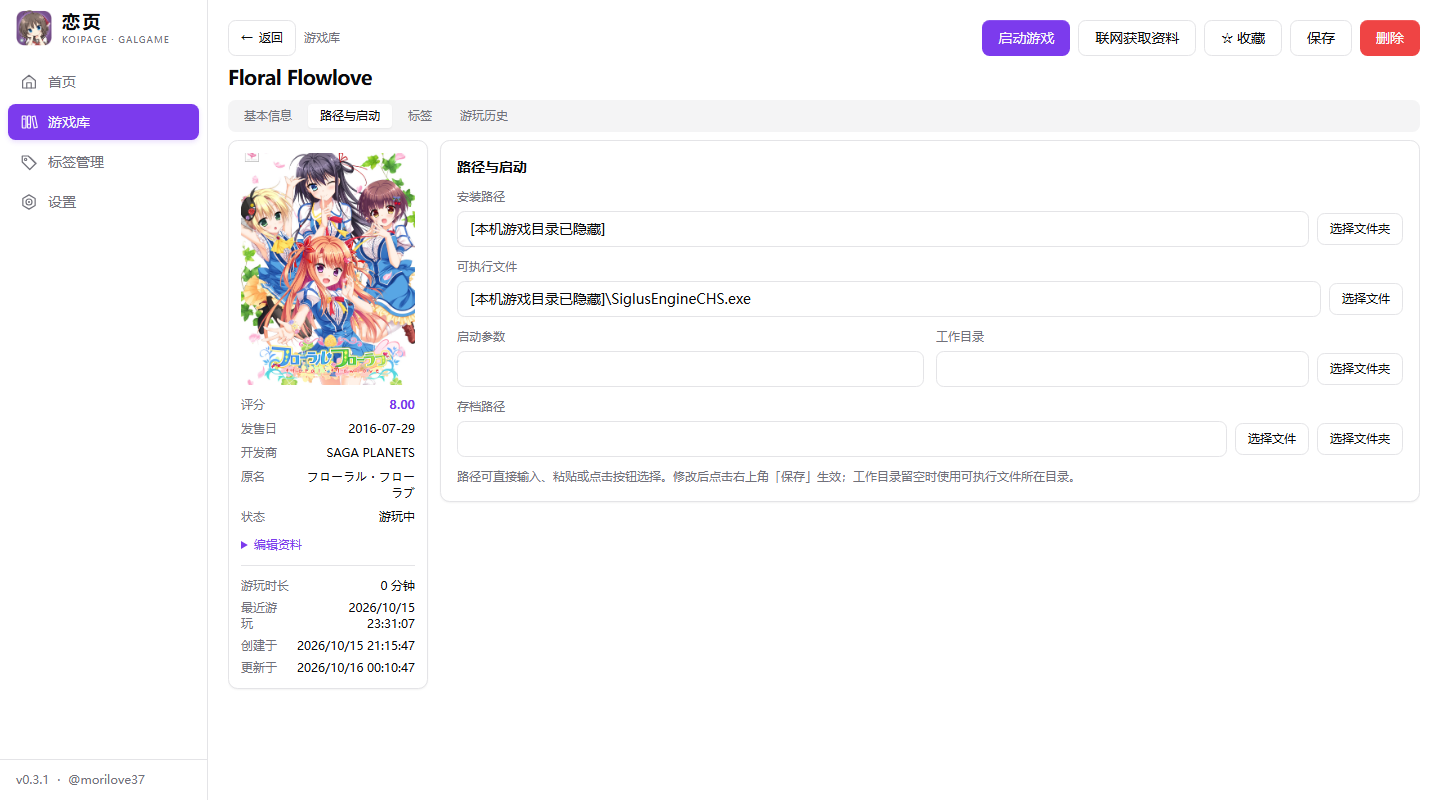
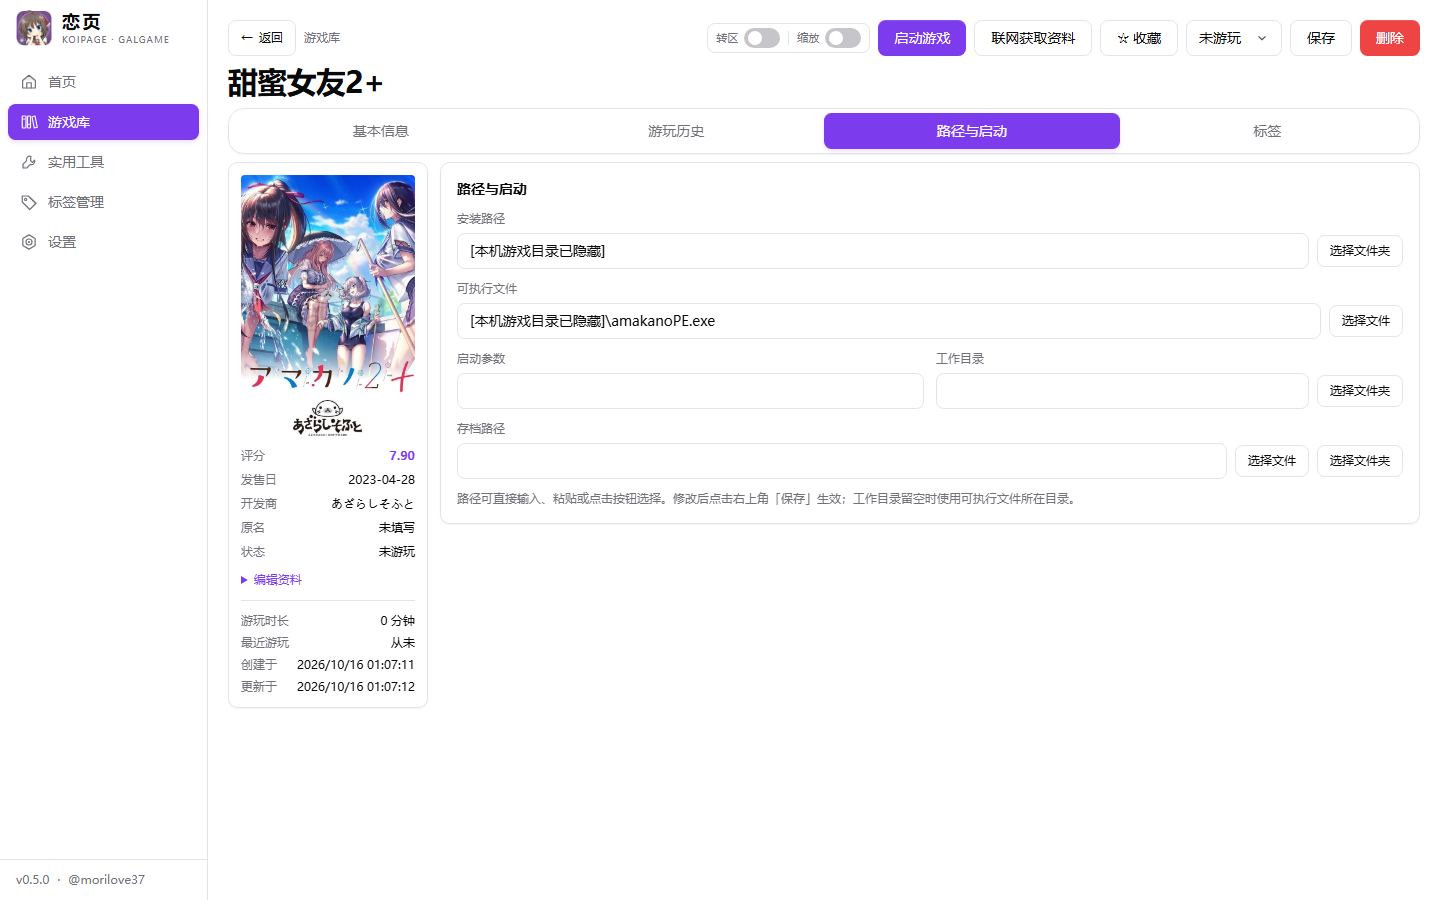
docs: refresh v0.5.0 project introduction and real-library screenshots

diff --git a/README.md b/README.md
@@ -3,9 +3,11 @@
 
   <h1>恋页 KoiPage</h1>
   <p><strong>收藏相遇，续写下一页。</strong></p>
-  <p>为本地 Galgame 与视觉小说收藏打造的 Windows 桌面游戏库。</p>
+  <p>面向 Windows 的 Galgame／视觉小说管理器，从整理收藏到继续游玩。</p>
+  <p><strong>当前版本：v0.5.0</strong> · Windows x64 · 本地游戏库</p>
 
   <a href="https://github.com/morilove37/KoiPage/releases/latest">下载最新版</a> ·
+  <a href="#界面预览">界面预览</a> ·
   <a href="#功能">功能介绍</a> ·
   <a href="CHANGELOG.md">更新日志</a> ·
   <a href="https://github.com/morilove37/KoiPage/issues">反馈问题</a>
@@ -13,44 +15,94 @@
 
 ---
 
-把散落在磁盘里的故事，整理成自己的收藏馆。恋页可以扫描游戏、匹配资料、管理标签与收藏、启动游戏并记录游玩时长。下次打开时，从上次的故事继续。
+把散落在磁盘里的故事，整理成自己的收藏。**恋页**可以扫描启动文件、匹配作品资料、整理标签与游玩记录，并提供内置转区和窗口缩放工具。打开首页，浏览封面、继续上次的游戏，或随机挑选下一部作品。
+
+![恋页 v0.5.0 首页：封面切换、游戏信息与最近游玩记录](docs/screenshots/home.png)
+
+## 恋页能做什么？
+
+| 从这里开始 | 可以做的事 |
+|---|---|
+| **导入作品** | 选择启动文件或扫描目录，确认名称后匹配 NextMoe、VNDB、Bangumi；支持逐款确认、一键批量导入和自定义资料。 |
+| **整理收藏** | 网格／列表浏览，按标签、状态、开发商筛选；收藏、搜索、排序与离线标签汉化。 |
+| **继续游玩** | 首页循环切换封面、直接启动游戏；查看最近记录、本日／周／月时长图表和日历回顾。 |
+| **转区与缩放** | 内置 Locale Emulator 和 Magpie，集中管理启动方式，选择默认缩放模式并查看效果链。 |
+| **分享足迹** | 生成包含原名、评分与游玩时长的图片，选择隐藏作品或替换封面，也可生成 24 小时分享链接。 |
+| **留住自己的布置** | 浅色、深色与液态玻璃主题；本地数据库、导入导出、备份、托盘和版本更新提醒。 |
+
+## v0.5.0 更新重点
+
+- **实用工具集中管理**：内置 Locale Emulator 2.5.0.1 与 Magpie 0.12.1，支持选择其他工具程序；游戏详情顶部可快捷切换转区和随游戏启动缩放工具。
+- **缩放模式与滤镜可查看、可选择**：附带开发者调校的默认配置，已有 Magpie 配置优先保留；恢复默认前会备份原配置。
+- **导入更完整**：支持 `.exe`、`.bat` 和 `.cmd`，新增扫描提示；中文／日文标题优先级可在设置中调整。
+- **窗口行为可选**：关闭时选择缩小至托盘或退出，并可记住选择。
+
+完整改动见 [更新日志](CHANGELOG.md#050---2026-10-17)。
 
 ## 下载与安装
 
-前往 **[Releases 下载最新版](https://github.com/morilove37/KoiPage/releases/latest)**，选择 Windows x64 的 `setup.exe` 安装包。也提供 MSI 格式，两种安装包任选一种即可。
+前往 **[Releases 下载最新版](https://github.com/morilove37/KoiPage/releases/latest)**，选择下面一种安装包：
 
-- **运行环境**：Windows x64、Microsoft WebView2。
-- **普通用户无需安装** Node.js、Rust 或 pnpm。
-- GitHub 附带的 `Source code` 是源码，不能直接当作应用运行。
-- `latest.json` 与 `.sig` 是更新系统使用的文件，无需手动下载。
+| 文件 | 适合谁 |
+|---|---|
+| `KoiPage_0.5.0_x64-setup.exe` | 推荐日常安装使用，约 **13.8 MB**。 |
+| `KoiPage_0.5.0_x64_zh-CN.msi` | 需要 MSI 安装格式时使用，约 **18.1 MB**。 |
+
+- **运行环境**：Windows x64、Microsoft WebView2。普通用户无需安装 Node.js、Rust 或 pnpm。
+- 安装包大小是下载体积；安装文件、首次释放的工具与后续游戏库缓存会另占磁盘空间。
+- GitHub 附带的 `Source code` 是源码，不能直接当作应用运行；`latest.json` 和 `.sig` 供更新系统使用，无需手动下载。
+- 已安装支持应用内更新的版本时，可在 **设置 → 关于** 检查更新，确认后安装。
 
 ## 界面预览
 
-以下截图使用维护者实际导入的游戏与封面，展示应用界面；本机完整路径已遮盖。游戏封面与作品资料归各自权利人所有。
+以下均为 **v0.5.0 界面截图**，使用维护者此前实际导入的 **17 款游戏收藏快照**，并非应用预置作品。本机路径与封面资源地址已隐藏；截图中的游玩记录保留真实数据。游戏封面与作品资料归各自权利人所有。
 
-### 首页：从上次的故事继续
+### 游戏库：让每一部作品都容易找到
 
-![首页与游玩概览](docs/screenshots/home.png)
+![游戏库：封面网格、搜索、状态和标签筛选](docs/screenshots/library.png)
 
-### 游戏库：把收藏整理清楚
+收藏与标签筛选配合网格／列表视图，既能浏览封面，也能快速定位想玩的作品。
 
-![游戏库与离线中文标签](docs/screenshots/library.png)
+### 实用工具：转区启动与窗口缩放
 
-### 游戏详情：资料、启动与记录
+<img src="docs/screenshots/tools.png" width="900" alt="实用工具：内置 Locale Emulator、Magpie、默认缩放模式与效果链" />
 
-![游戏详情与固定操作栏](docs/screenshots/detail.png)
+内置工具可离线使用。**LE 只支持 32 位游戏 exe**；Magpie 随游戏启动后，仍需按其缩放快捷键放大窗口。更多说明见 [转区启动](docs/locale-emulator.md) 与 [Magpie 窗口缩放](docs/magpie.md)。
 
-### 路径与启动：直接选择文件和文件夹
+<details>
+<summary><strong>展开更多截图：作品详情、启动设置、时长图表、日历、分享与液态玻璃主题</strong></summary>
 
-![路径选择与启动设置](docs/screenshots/detail-files.png)
+### 作品详情：封面、资料与固定操作栏
 
-### 液态玻璃：让收藏馆有自己的颜色
+![横向封面详情：评分、发售日、原名与简介](docs/screenshots/detail.png)
 
-![液态玻璃主题](docs/screenshots/glass.png)
+横向与竖向封面采用不同排版；返回、启动、收藏和状态操作固定在顶部。
 
-### 分享足迹：展示自己的游玩收藏
+### 路径与启动：选择文件，也可以直接输入
 
-![分享列表与游玩足迹预览](docs/screenshots/share.png)
+![竖向封面详情与路径选择：安装目录、可执行文件、工作目录和存档路径](docs/screenshots/detail-files.png)
+
+### 游玩概览：最近记录与本日／周／月时长
+
+![首页游玩时长图表与游戏库状态分布](docs/screenshots/playtime.png)
+
+### 日历回顾：找到某一天玩过的故事
+
+![日历回顾：按日期查看真实游玩时长和作品](docs/screenshots/calendar.png)
+
+### 分享足迹：保留原名，也展示自己的游玩进度
+
+![分享编辑器：排序、隐藏作品、替换封面、图片预览和临时链接入口](docs/screenshots/share.png)
+
+可保存或复制图片；只有点击生成链接时，才会将分享图上传至第三方服务。
+
+### 液态玻璃：为收藏馆换一种氛围
+
+![液态玻璃主题：渐变背景与半透明收藏卡片](docs/screenshots/glass.png)
+
+自定义壁纸仅在液态玻璃主题下展示，其他主题保留各自的界面风格。
+
+</details>
 
 ## 功能
 
@@ -175,6 +227,8 @@ cargo test --manifest-path src-tauri/Cargo.toml --lib --locked
 应用图标为《天津罪／アマツツミ》水无月萤的 Q 版再创作，角色归 Purple software 所有，本项目与原作官方无隶属关系。详见 [图标与角色来源](docs/branding.md)。
 
 内置 [Locale Emulator](https://github.com/xupefei/Locale-Emulator) 由其原作者维护，相关组件按 LGPL-3.0 分发，附带原始许可与来源说明；详见 [集成说明](docs/locale-emulator.md)。
+
+内置 [Magpie](https://github.com/Blinue/Magpie) 0.12.1 按 GPL-3.0 分发，保留原始许可与来源说明，通过独立进程调用；详见 [集成与许可说明](docs/magpie.md)。
 
 ## 反馈与作者
 
